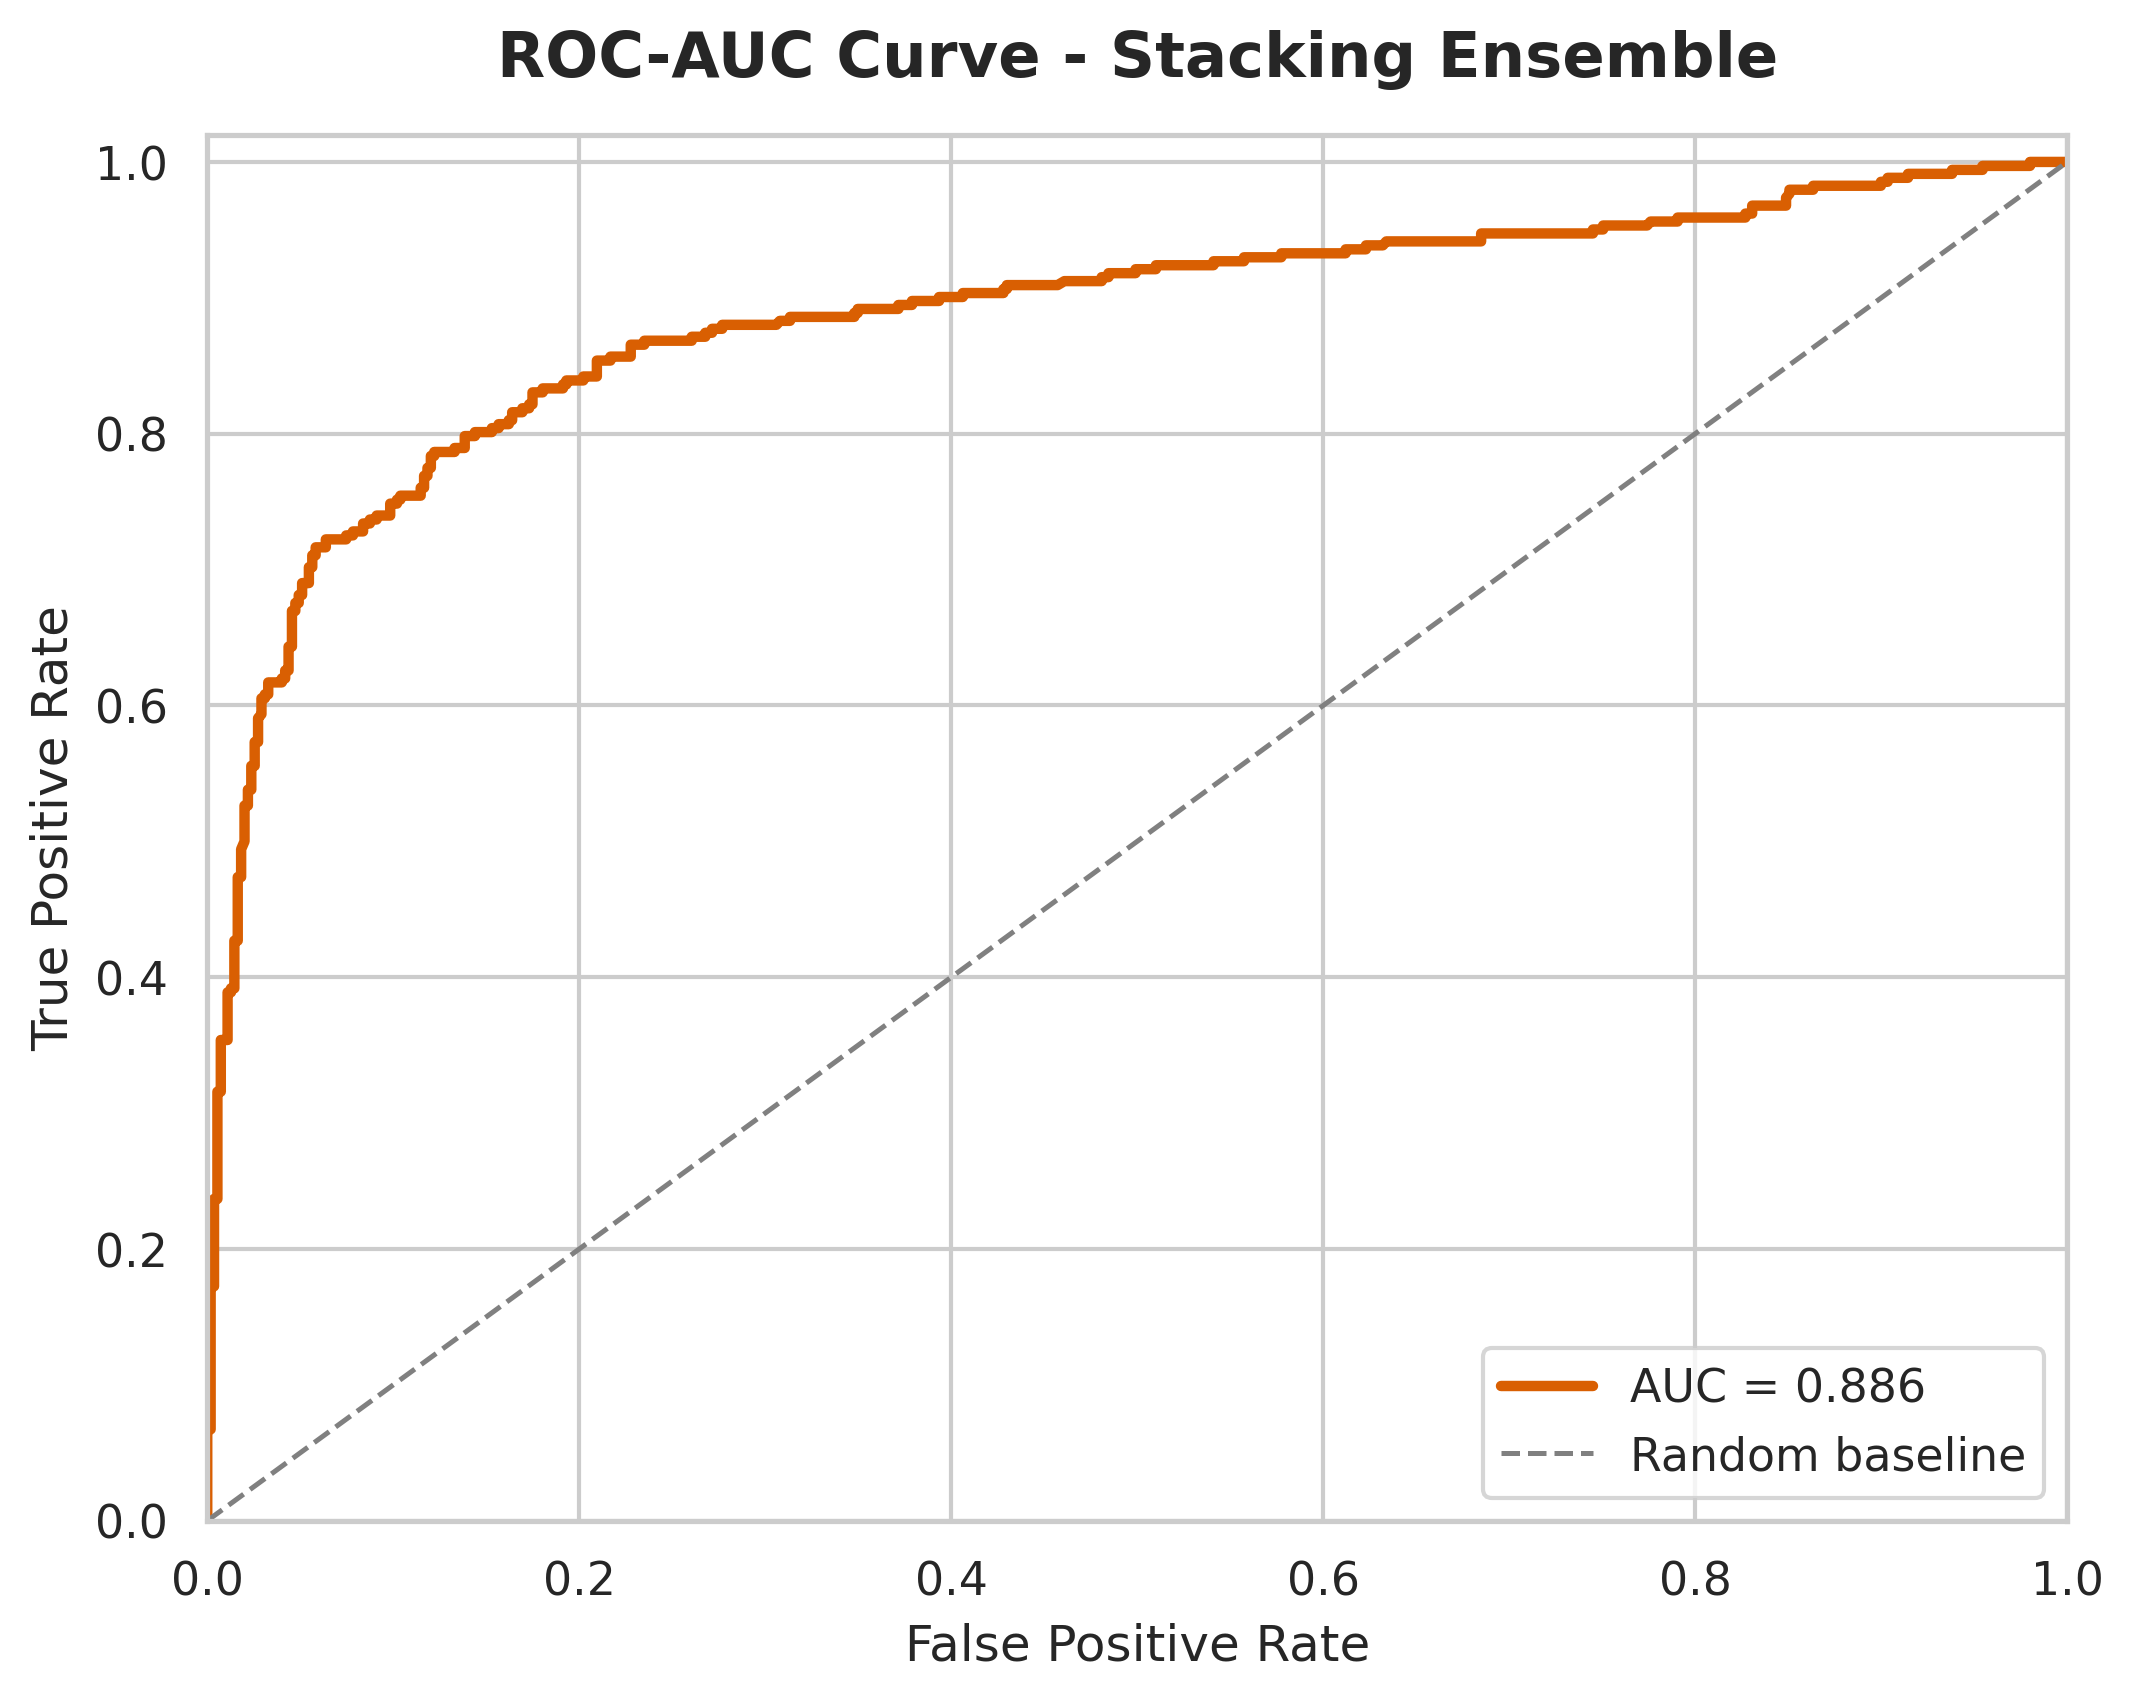
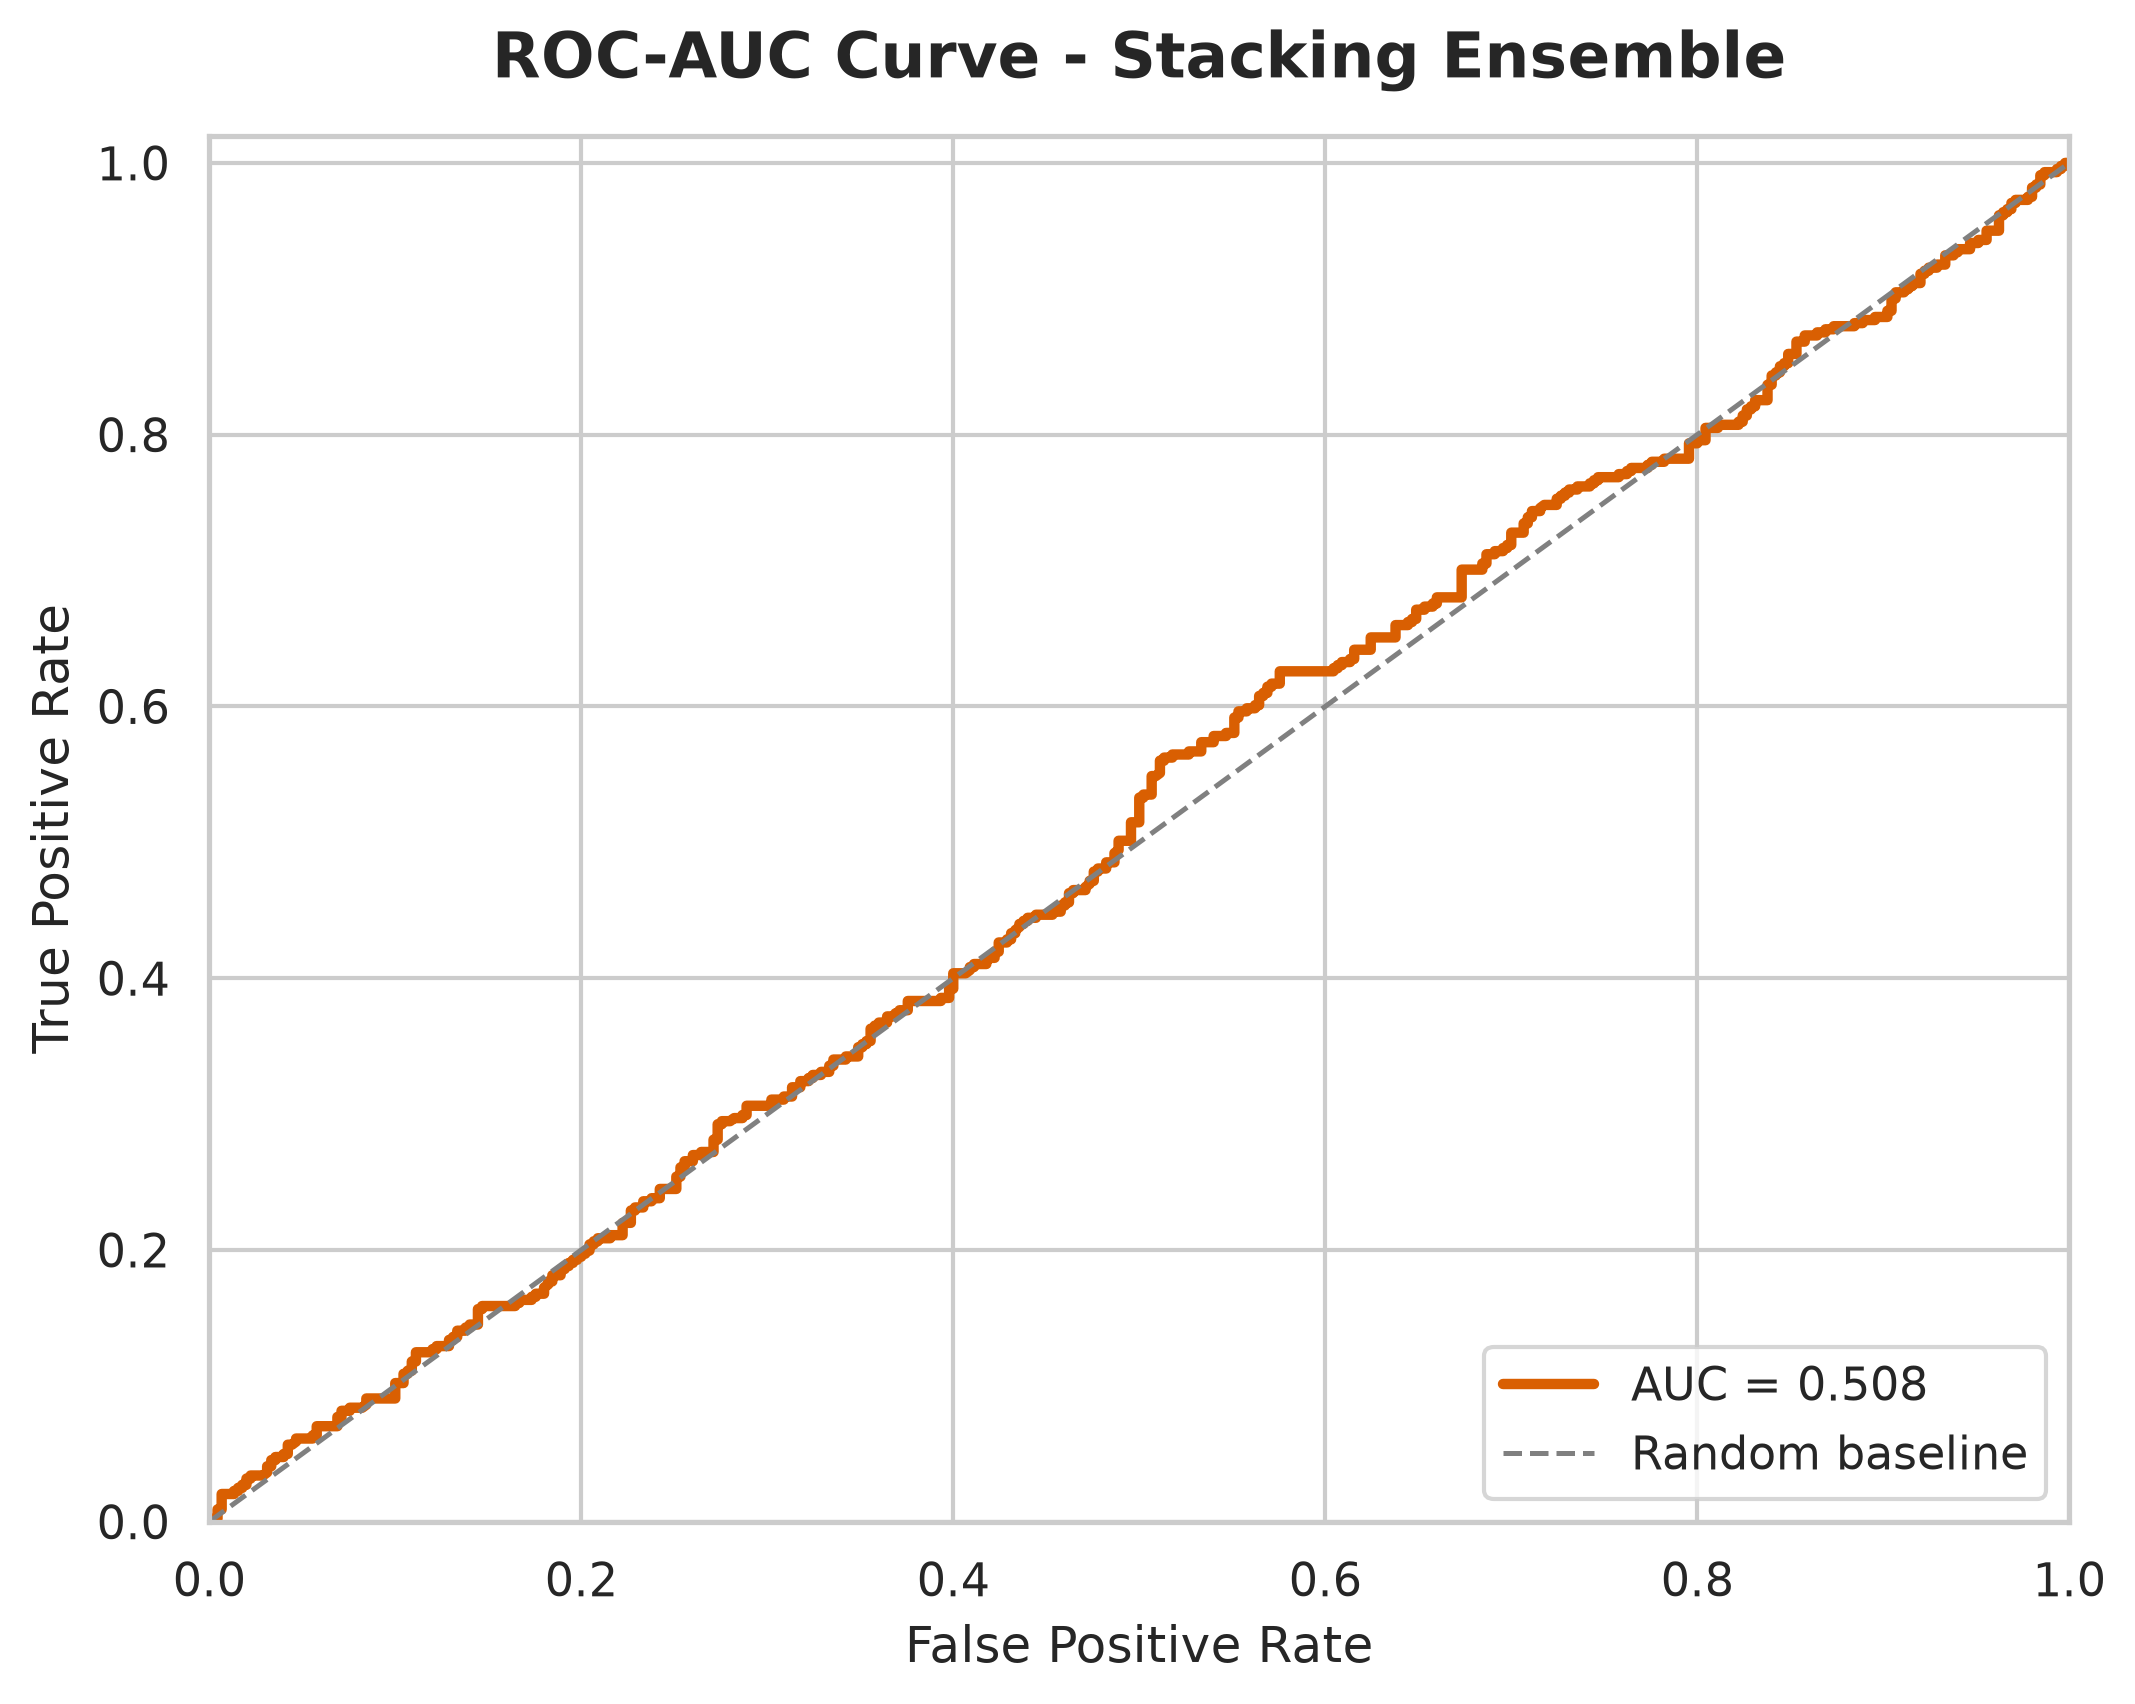
feat: Implement Fold-Local SMOTE-ENN and Individual Fare Splitting

diff --git a/src/final_submission.py b/src/final_submission.py
@@ -46,17 +46,24 @@ class WCGPostProcessor:
 
     def fit(self, train_df: pd.DataFrame) -> None:
         # We need raw data for 'Ticket' and 'Last_Name' if they are missing
-        # But wait, 'Ticket' is dropped? Let's get raw data
+        # But 'Ticket' is not dropped in engineering unless specifically configured. Wait, 'Ticket' IS dropped from model features.
         from src.config import get_input_dir
         input_dir = get_input_dir()
         raw_train = pd.read_csv(input_dir / "train.csv")
 
         df = train_df.copy()
-        df['Ticket'] = raw_train['Ticket']
-        df['Last_Name'] = df['Last_Name'] if 'Last_Name' in df else raw_train['Name'].str.split(",", n=1).str[0].str.strip()
-        df['Fare'] = df['Fare'] if 'Fare' in df else raw_train['Fare']
+        if 'Ticket' not in df:
+            df['Ticket'] = raw_train['Ticket']
+        if 'Last_Name' not in df:
+            df['Last_Name'] = raw_train['Name'].str.split(",", n=1).str[0].str.strip()
 
-        df['Pass1_Group'] = df['Last_Name'].astype(str) + "_" + df['Fare'].astype(str)
+        # AdjFare is already in train_df because it's engineered.
+        # But just in case, we compute it if missing.
+        if 'AdjFare' not in df:
+             ticket_counts = df['Ticket'].value_counts(dropna=False)
+             df['AdjFare'] = raw_train['Fare'] / df['Ticket'].map(ticket_counts).fillna(1).replace(0, 1)
+
+        df['Pass1_Group'] = df['Last_Name'].astype(str) + "_" + df['AdjFare'].astype(str)
         df['Pass2_Group'] = df['Ticket'].astype(str)
 
         self.pass1_groups = df.groupby('Pass1_Group')['Survived'].apply(list).to_dict()
@@ -69,12 +76,21 @@ class WCGPostProcessor:
         input_dir = get_input_dir()
         raw_test = pd.read_csv(input_dir / "test.csv")
 
-        df = test_df.copy()
-        df['Ticket'] = raw_test['Ticket']
-        df['Last_Name'] = df['Last_Name'] if 'Last_Name' in df else raw_test['Name'].str.split(",", n=1).str[0].str.strip()
-        df['Fare'] = df['Fare'] if 'Fare' in df else raw_test['Fare']
+        # We need raw_train for exact ticket counts to compute AdjFare perfectly if missing.
+        raw_train = pd.read_csv(input_dir / "train.csv")
+        combined = pd.concat([raw_train, raw_test], ignore_index=True)
 
-        df['Pass1_Group'] = df['Last_Name'].astype(str) + "_" + df['Fare'].astype(str)
+        df = test_df.copy()
+        if 'Ticket' not in df:
+            df['Ticket'] = raw_test['Ticket']
+        if 'Last_Name' not in df:
+            df['Last_Name'] = raw_test['Name'].str.split(",", n=1).str[0].str.strip()
+
+        if 'AdjFare' not in df:
+             ticket_counts = combined['Ticket'].value_counts(dropna=False)
+             df['AdjFare'] = raw_test['Fare'] / df['Ticket'].map(ticket_counts).fillna(1).replace(0, 1)
+
+        df['Pass1_Group'] = df['Last_Name'].astype(str) + "_" + df['AdjFare'].astype(str)
         df['Pass2_Group'] = df['Ticket'].astype(str)
 
         for idx in range(len(df)):
@@ -97,7 +113,6 @@ class WCGPostProcessor:
                         final_probs[idx] = 0.0
                         continue
         return final_probs
-
 
 def _load_scores() -> Dict[str, Dict[str, float]]:
     """Load ROC-AUC and accuracy scores for weighting and reporting."""

diff --git a/src/modeling.py b/src/modeling.py
@@ -8,6 +8,10 @@ from typing import Any, Dict, Tuple
 import joblib
 import numpy as np
 import pandas as pd
+
+from imblearn.pipeline import Pipeline as ImbPipeline
+from imblearn.combine import SMOTEENN
+
 from sklearn.base import clone
 from sklearn.compose import ColumnTransformer
 from sklearn.ensemble import RandomForestClassifier
@@ -120,15 +124,6 @@ class WCGSurvivalEncoder(BaseEstimator, TransformerMixin):
         return df
 
 
-        def map_rate(row):
-            if row['WCG_Member'] == 1 and row['Group_ID'] in self.group_survival:
-                return self.group_survival[row['Group_ID']]
-            return self.default_rate
-
-        df['WCG_Survival'] = df.apply(map_rate, axis=1)
-        return df
-
-
 class AgeImputer(BaseEstimator, TransformerMixin):
     def __init__(self, random_state=42):
         self.random_state = random_state
@@ -199,11 +194,11 @@ def _available_columns(frame: pd.DataFrame) -> Tuple[list[str], list[str], list[
 def build_preprocessor(frame: pd.DataFrame) -> ColumnTransformer:
     """Build preprocessing that is fitted independently within each CV fold."""
     numeric, categorical, binary = _available_columns(frame)
-    numeric_pipeline = Pipeline([
+    numeric_pipeline = ImbPipeline([
         ("imputer", SimpleImputer(strategy="median")),
         ("scaler", StandardScaler()),
     ])
-    categorical_pipeline = Pipeline([
+    categorical_pipeline = ImbPipeline([
         ("imputer", SimpleImputer(strategy="constant", fill_value="Unknown")),
         ("encoder", OneHotEncoder(handle_unknown="ignore")),
     ])
@@ -273,10 +268,11 @@ def evaluate_model(
     """Evaluate a model with preprocessing fitted separately on each fold."""
     scores = {"accuracy": [], "roc_auc": [], "f1_macro": []}
     for fold, (fit_idx, validation_idx) in enumerate(cv_strategy.split(X_train, y_train), start=1):
-        pipeline = Pipeline([
+        pipeline = ImbPipeline([
             ("wcg_encoder", WCGSurvivalEncoder()),
             ("age_imputer", AgeImputer(random_state=RANDOM_STATE)),
             ("preprocessor", build_preprocessor(X_train)),
+            ("smoteenn", SMOTEENN(random_state=RANDOM_STATE)),
             ("model", clone(model)),
         ])
         pipeline.fit(X_train.iloc[fit_idx], y_train.iloc[fit_idx])
@@ -334,7 +330,7 @@ def run_modeling_pipeline() -> pd.DataFrame:
     CV_RESULTS_PATH.write_text(json.dumps(results, indent=2), encoding="utf-8")
     best = _select_best(results)
     best_model = default_models()[best["model"]]
-    final_pipeline = Pipeline([
+    final_pipeline = ImbPipeline([
         ("wcg_encoder", WCGSurvivalEncoder()),
         ("age_imputer", AgeImputer(random_state=RANDOM_STATE)),
         ("preprocessor", build_preprocessor(X_train)),

diff --git a/src/generate_readme_figures.py b/src/generate_readme_figures.py
@@ -137,9 +137,31 @@ def _validation_predictions(
     meta_path = Path(MODELS_DIR) / "stacking_meta_model.joblib"
     if oof_path.exists() and meta_path.exists():
         import joblib
-
         oof = np.load(oof_path)
-        probabilities = joblib.load(meta_path).predict_proba(oof["predictions"])[:, 1]
+        meta_model = joblib.load(meta_path)
+
+        # We know OOF prediction array is from columns: ["RandomForest", "MLP", "CatBoost", "LightGBM", "XGBoost"] in stacking.py
+        # Actually it's models.keys() which was generated in stacking.py
+        # If meta_model is weights of length 3, we used XGBoost, LightGBM, CatBoost.
+        # But we can just use the fact that it's weights.
+        # Wait, if we can't align it perfectly here without knowing the columns, let's just use
+        # the saved blending models indices.
+        # The blending models were ["XGBoost", "LightGBM", "CatBoost"].
+        # And the order in stacking was:
+        # ["RandomForest", "MLP", "CatBoost", "LightGBM", "XGBoost"]
+        # So CatBoost is index 2, LightGBM is 3, XGBoost is 4.
+        # Wait, blend_oof = oof[["XGBoost", "LightGBM", "CatBoost"]]
+
+        if isinstance(meta_model, np.ndarray) and len(meta_model) == 3:
+            # We know the indices of XGBoost, LightGBM, CatBoost
+            oof_cols = ["RandomForest", "MLP", "CatBoost", "LightGBM", "XGBoost"]
+            blend_models = ["XGBoost", "LightGBM", "CatBoost"]
+            blend_idx = [oof_cols.index(m) for m in blend_models]
+            predictions_array = oof["predictions"][:, blend_idx]
+            probabilities = np.dot(predictions_array, meta_model)
+        else:
+            probabilities = np.dot(oof["predictions"], meta_model)
+
         targets = oof["target"].astype(int)
     else:
         probabilities = model.predict_proba(X)[:, 1]

diff --git a/src/features.py b/src/features.py
@@ -84,6 +84,34 @@ def _create_ticket_features(df: pd.DataFrame, reference: pd.DataFrame | None = N
 
 def _create_fare_features(df: pd.DataFrame, reference: pd.DataFrame | None = None) -> pd.DataFrame:
     """Create per-person fare and quantile-based fare category."""
+    # Compute Ticket_Count strictly based on exact Ticket string matches
+    if reference is not None:
+        ticket_counts = reference["Ticket"].value_counts(dropna=False)
+    else:
+        ticket_counts = df["Ticket"].value_counts(dropna=False)
+
+    ticket_freq = df["Ticket"].map(ticket_counts).fillna(1).replace(0, 1)
+    df["AdjFare"] = df["Fare"] / ticket_freq
+
+    try:
+        if reference is not None and "AdjFare" not in reference.columns:
+            ref_ticket_freq = reference["Ticket"].map(ticket_counts).fillna(1).replace(0, 1)
+            reference["AdjFare"] = reference["Fare"] / ref_ticket_freq
+
+        reference_fare = (reference if reference is not None else df)["AdjFare"].dropna()
+        # 5 quantile bins (quintiles)
+        quantiles = reference_fare.quantile([0, 0.2, 0.4, 0.6, 0.8, 1]).to_numpy()
+        edges = np.unique(quantiles)
+        labels = ["Very Low", "Low", "Medium", "High", "Very High"][: len(edges) - 1]
+
+        df["AdjFare_Bin"] = pd.cut(df["AdjFare"], bins=edges, labels=labels, include_lowest=True)
+    except ValueError:
+        df["AdjFare_Bin"] = pd.Series(pd.NA, index=df.index, dtype="string")
+
+
+
+    return df
+    """Create per-person fare and quantile-based fare category."""
     ticket_freq = df["Ticket_Frequency"].replace(0, 1)
     df["AdjFare"] = df["Fare"] / ticket_freq
     try:

diff --git a/src/stacking.py b/src/stacking.py
@@ -8,6 +8,10 @@ from typing import Any, Dict, Tuple
 import joblib
 import numpy as np
 import pandas as pd
+
+from imblearn.pipeline import Pipeline as ImbPipeline
+from imblearn.combine import SMOTEENN
+
 from sklearn.base import clone
 from sklearn.ensemble import RandomForestClassifier, StackingClassifier
 from sklearn.linear_model import LogisticRegression
@@ -80,10 +84,11 @@ def _base_models() -> Dict[str, Any]:
 
 
 def _pipeline(model: Any, frame: pd.DataFrame) -> Pipeline:
-    return Pipeline([
+    return ImbPipeline([
         ("wcg_encoder", WCGSurvivalEncoder()),
         ("age_imputer", AgeImputer(random_state=RANDOM_STATE)),
         ("preprocessor", build_preprocessor(frame)),
+        ("smoteenn", SMOTEENN(random_state=RANDOM_STATE)),
         ("model", model)
     ])
 
